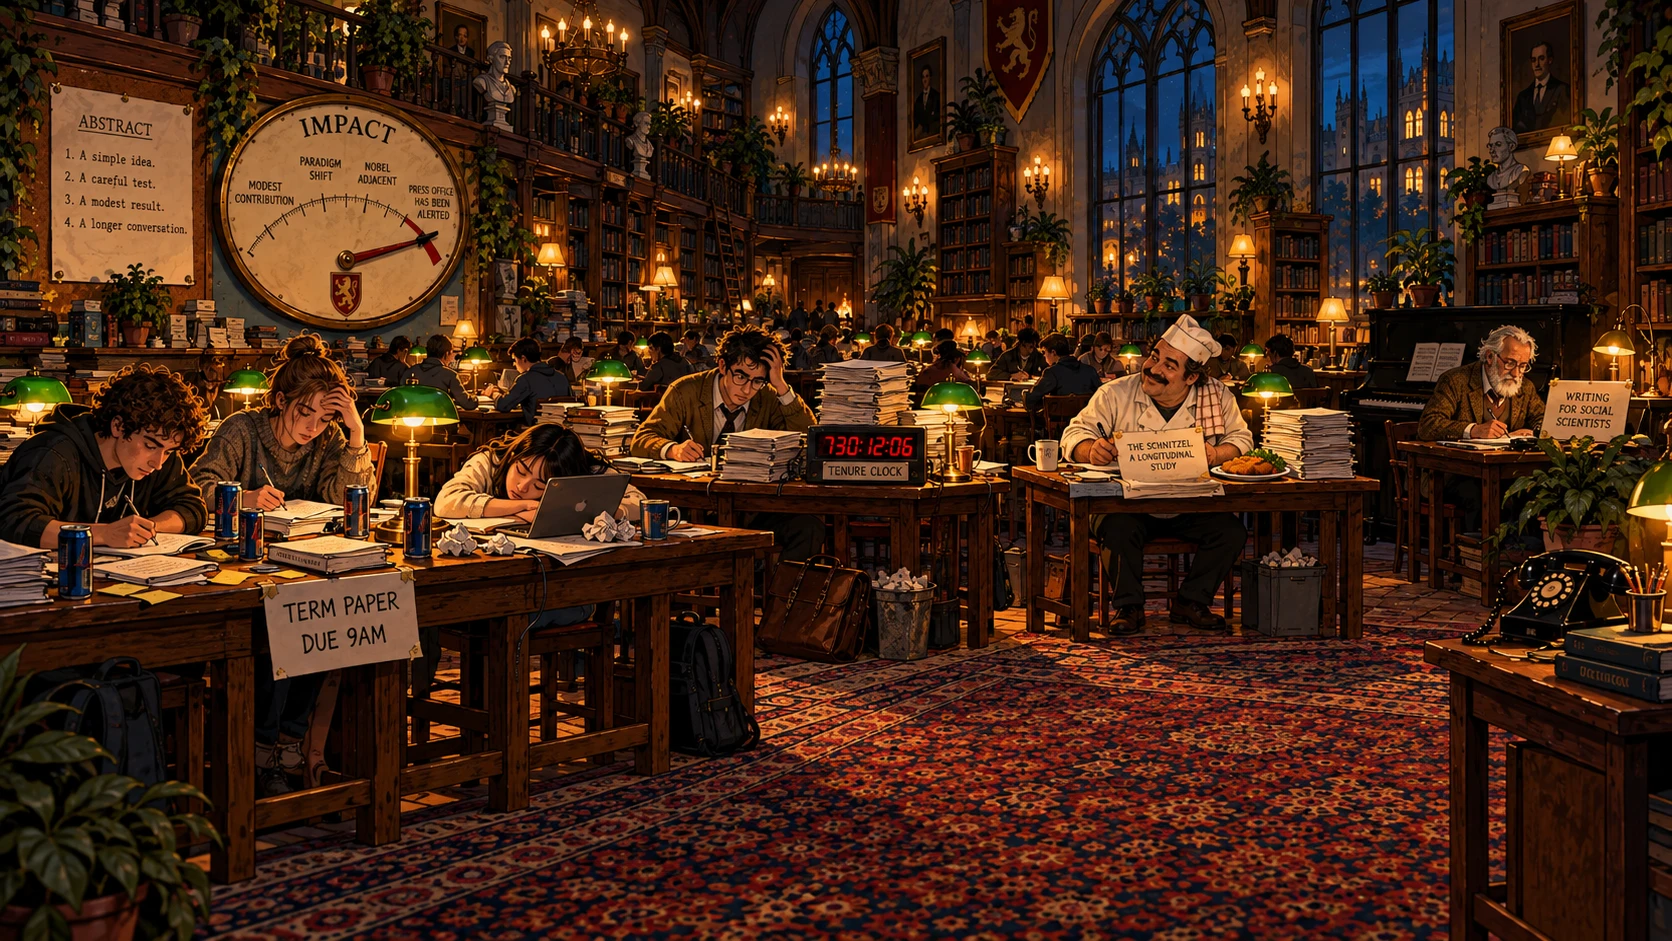
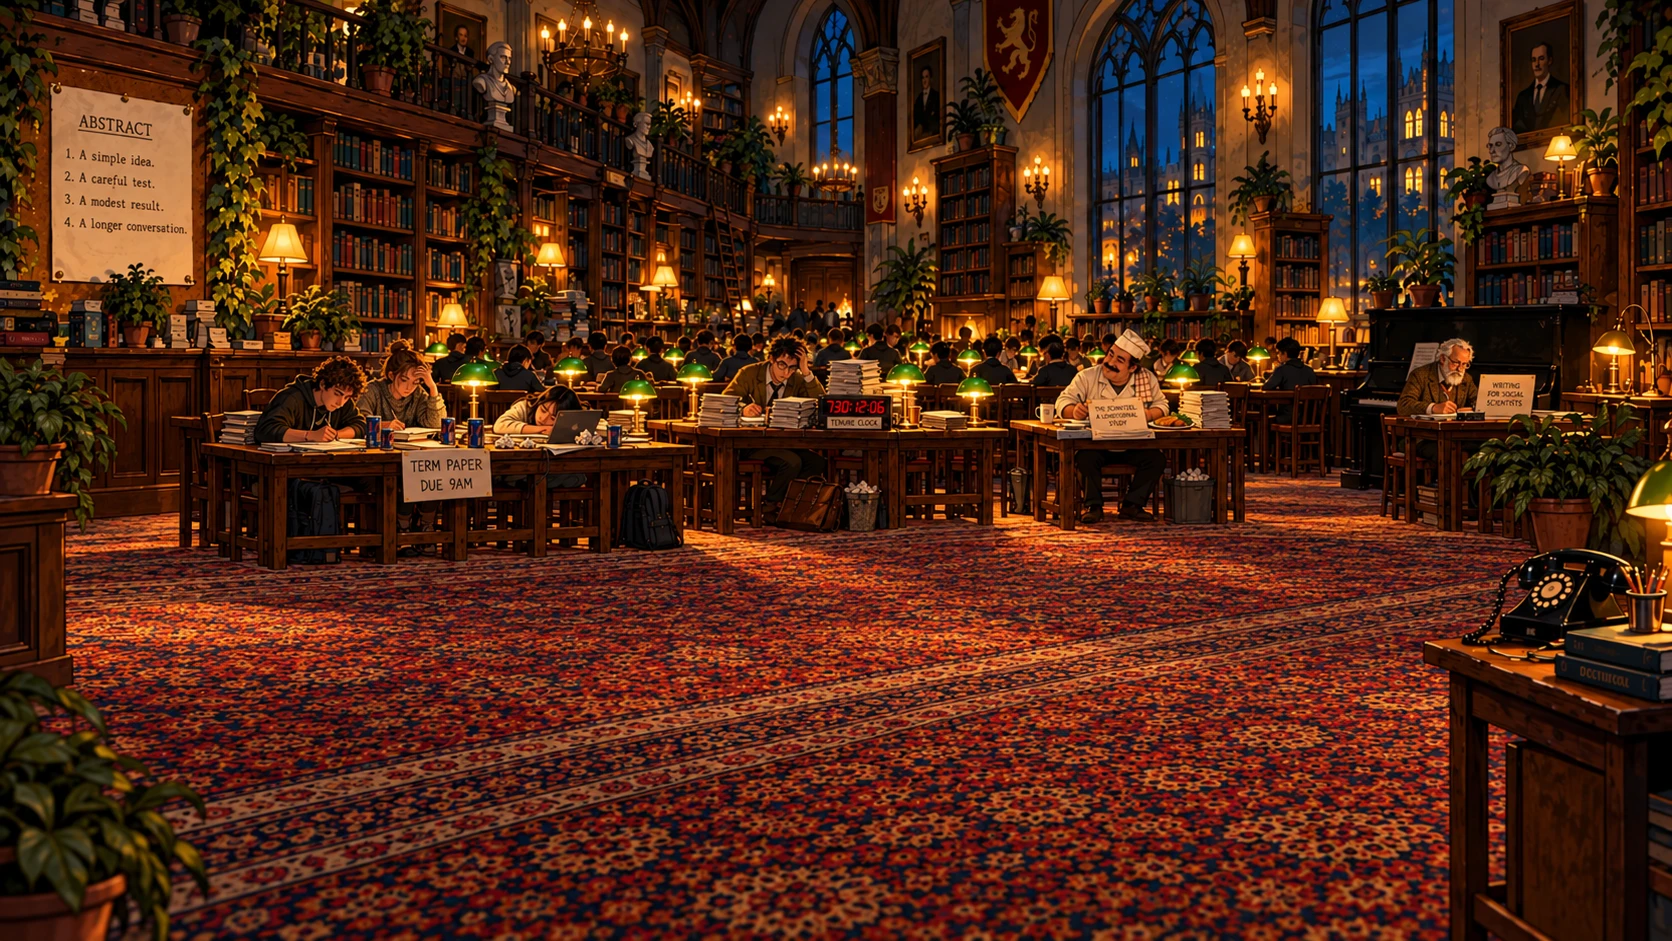
Writing Room repainted: no IMPACT gauge, the writers at the back of the hall, Vossberg, Stellmacher, the Registrar and KIRA on the open carpet in front
Claude-Session: https://claude.ai/code/session_01NVbNvGwATBDeX3jSoy7jXs

diff --git a/web/the-secret-of-the-codebook.html b/web/the-secret-of-the-codebook.html
@@ -3082,7 +3082,7 @@
   }
   // The actions each thing really needs, set room by room (ROADMAP 8zx; author: "only show the icons that
   // are really needed"). This table wins over the guess read off the room's code; Tobi is always Talk.
-  var ROOM_VERBS = {"whirlpool":{"prof":"talkto","penjar":"pickup","hourglass":"pickup","usb":"pickup","stamp":"pickup","glassdesk":"pickup","bingocard":"pickup","mug":"lookat","likertdie":"pickup","autograph":"lookat","shelfL":"lookat","shelfR":"lookat","frameL":"lookat","frameR":"lookat","windowL":"lookat","windowR":"lookat","skeleton":"lookat","cork":"lookat","counter":"lookat"},"lecture":{"goffman":"lookat","note":"lookat","phone":"lookat","doodle":"lookat","board":"use","ink":"pickup","prof":"talkto","students":"talkto"},"corridor":{"note":"lookat","glass":"lookat","skeleton":"lookat","wanted":"lookat","corkboard":"lookat","chalkboard":"lookat","duck":"pickup","gatedoor":"use","bell":"use"},"pond":{"philosopher":"talkto","coleman":"lookat","plaque":"lookat","swanleft":"lookat","swanright":"lookat"},"library":{"kira":"talkto","conveyor":"lookat use","catalogue":"use","framed":"lookat","stacks":"lookat","register":"pickup","desk":"pickup","sign":"lookat","phone":"use","swbook":"pickup","printer":"lookat pickup"},"hall":{"profg":"talkto","dj":"talkto","djtable":"lookat","ladder":"pickup","dispenser":"use","meter":"use","weber":"talkto","sign":"lookat","clipping":"lookat","marx":"talkto","durkheim":"talkto","founder3":"talkto"},"workshop":{"feldstrom":"talkto","machine":"use","tape":"use","forbids":"lookat","desk":"lookat","thesis":"lookat","diagrams":"lookat"},"seminar":{"board":"use","fellow":"talkto","chairs":"lookat","sign":"lookat"},"surveylab":{"nurse":"talkto","gurney1":"lookat","gurney2":"lookat","gurney3":"lookat","clipboard":"lookat","cabinet":"pickup","board":"lookat","phone":"lookat use","sign":"lookat","window":"lookat","poster":"lookat"},"ethics":{"keeper":"talkto","chair":"talkto","rep":"talkto","tribunal":"talkto","device":"lookat","table":"pickup","calendar":"pickup","pewright":"pickup","pewleft":"lookat","plaque":"lookat","glass":"lookat","cameo":"talkto"},"mensa":{"herald":"talkto","drum":"use","officer":"use","frame":"use","counters":"talkto","tables":"lookat"},"fieldwork":{"director":"talkto","host":"use","phone":"pickup","podiums":"lookat","board":"lookat","doorbusy":"lookat","doorforgot":"lookat","doorspam":"lookat","doornot":"lookat"},"statsbasement":{"switches":"use","seal":"use","skeptic":"talkto","banner":"lookat","board":"lookat","monkeydoor":"use","qNurse":"talkto","qDoorman":"talkto","qRegistrar":"talkto"},"delegation":{"kira":"talkto","record":"use","lever":"use","log":"lookat","prof":"talkto","qDirector":"talkto","qOfficer":"talkto","qFeldstrom":"talkto"},"bureau":{"clerk":"talkto","counter":"use","conveyor":"lookat","plaques":"lookat","gauge":"lookat"},"psychlab":{"achterberg":"talkto","typist":"talkto","desk":"lookat","typewriters":"lookat","hamlet":"lookat","pinboard":"lookat","cages":"lookat","labdoor":"lookat"},"postersession":{"poster":"use","best":"lookat","posters":"lookat","bins":"lookat","banner":"lookat","cameo":"talkto","feldstrom":"talkto"},"keynote":{"screen":"lookat","vossberg":"talkto","portraits":"lookat","chat":"lookat"},"writingroom":{"registrar":"talkto","kira":"talkto","table":"use","abstract":"use","impact":"lookat","phone":"lookat use","stCurly":"talkto","stHead":"talkto","stAsleep":"talkto","asst":"talkto","cook":"talkto","becker":"talkto","prof":"talkto","vossberg":"talkto"}};
+  var ROOM_VERBS = {"whirlpool":{"prof":"talkto","penjar":"pickup","hourglass":"pickup","usb":"pickup","stamp":"pickup","glassdesk":"pickup","bingocard":"pickup","mug":"lookat","likertdie":"pickup","autograph":"lookat","shelfL":"lookat","shelfR":"lookat","frameL":"lookat","frameR":"lookat","windowL":"lookat","windowR":"lookat","skeleton":"lookat","cork":"lookat","counter":"lookat"},"lecture":{"goffman":"lookat","note":"lookat","phone":"lookat","doodle":"lookat","board":"use","ink":"pickup","prof":"talkto","students":"talkto"},"corridor":{"note":"lookat","glass":"lookat","skeleton":"lookat","wanted":"lookat","corkboard":"lookat","chalkboard":"lookat","duck":"pickup","gatedoor":"use","bell":"use"},"pond":{"philosopher":"talkto","coleman":"lookat","plaque":"lookat","swanleft":"lookat","swanright":"lookat"},"library":{"kira":"talkto","conveyor":"lookat use","catalogue":"use","framed":"lookat","stacks":"lookat","register":"pickup","desk":"pickup","sign":"lookat","phone":"use","swbook":"pickup","printer":"lookat pickup"},"hall":{"profg":"talkto","dj":"talkto","djtable":"lookat","ladder":"pickup","dispenser":"use","meter":"use","weber":"talkto","sign":"lookat","clipping":"lookat","marx":"talkto","durkheim":"talkto","founder3":"talkto"},"workshop":{"feldstrom":"talkto","machine":"use","tape":"use","forbids":"lookat","desk":"lookat","thesis":"lookat","diagrams":"lookat"},"seminar":{"board":"use","fellow":"talkto","chairs":"lookat","sign":"lookat"},"surveylab":{"nurse":"talkto","gurney1":"lookat","gurney2":"lookat","gurney3":"lookat","clipboard":"lookat","cabinet":"pickup","board":"lookat","phone":"lookat use","sign":"lookat","window":"lookat","poster":"lookat"},"ethics":{"keeper":"talkto","chair":"talkto","rep":"talkto","tribunal":"talkto","device":"lookat","table":"pickup","calendar":"pickup","pewright":"pickup","pewleft":"lookat","plaque":"lookat","glass":"lookat","cameo":"talkto"},"mensa":{"herald":"talkto","drum":"use","officer":"use","frame":"use","counters":"talkto","tables":"lookat"},"fieldwork":{"director":"talkto","host":"use","phone":"pickup","podiums":"lookat","board":"lookat","doorbusy":"lookat","doorforgot":"lookat","doorspam":"lookat","doornot":"lookat"},"statsbasement":{"switches":"use","seal":"use","skeptic":"talkto","banner":"lookat","board":"lookat","monkeydoor":"use","qNurse":"talkto","qDoorman":"talkto","qRegistrar":"talkto"},"delegation":{"kira":"talkto","record":"use","lever":"use","log":"lookat","prof":"talkto","qDirector":"talkto","qOfficer":"talkto","qFeldstrom":"talkto"},"bureau":{"clerk":"talkto","counter":"use","conveyor":"lookat","plaques":"lookat","gauge":"lookat"},"psychlab":{"achterberg":"talkto","typist":"talkto","desk":"lookat","typewriters":"lookat","hamlet":"lookat","pinboard":"lookat","cages":"lookat","labdoor":"lookat"},"postersession":{"poster":"use","best":"lookat","posters":"lookat","bins":"lookat","banner":"lookat","cameo":"talkto","feldstrom":"talkto"},"keynote":{"screen":"lookat","vossberg":"talkto","portraits":"lookat","chat":"lookat"},"writingroom":{"registrar":"talkto","kira":"talkto","abstract":"use","phone":"lookat use","stCurly":"talkto","stHead":"talkto","stAsleep":"talkto","asst":"talkto","cook":"talkto","becker":"talkto","prof":"talkto","vossberg":"talkto"}};
   function verbsOf(t){
     var id = t.dataset.id || t.dataset.extra || t.dataset.zone || '';
     if (id === 'tobi') return ['talkto'];
@@ -12042,24 +12042,22 @@ var CSS = '' +
 // The Writing Room, redesigned (author, 2026-09-28: "much bigger and many more people sitting there
 // writing"): a writing hall. Everybody here is writing something; you are the one with a deadline AND a claim.
 var HOTSPOTS = [
+  // repainted (author, 2026-09-28): no IMPACT gauge, the writers at the back, the people you deal with in front
   { id:'abstract',  label:'The ABSTRACT poster',     noun:'the abstract',  l:3,  t:9,  w:9,  h:21 },
-  { id:'impact',    label:'The IMPACT gauge',        noun:'the gauge',     l:13, t:10, w:15, h:24 },
-  { id:'stCurly',   label:'A student, writing very fast', noun:'the student', l:0,  t:40, w:12, h:19, primary:'talkto' },
-  { id:'stHead',    label:'A student, head in her hands', noun:'the student', l:12, t:37, w:10, h:20, primary:'talkto' },
-  { id:'stAsleep',  label:'A student, asleep on a laptop', noun:'the sleeping student', l:26, t:45, w:12, h:12, primary:'talkto' },
-  { id:'asst',      label:'An assistant professor, and a TENURE CLOCK', noun:'the assistant professor', l:38, t:34, w:17, h:17, primary:'talkto' },
-  { id:'cook',      label:'The Mensa cook, writing a book', noun:'the cook',    l:65, t:33, w:10, h:22, primary:'talkto' },
-  { id:'becker',    label:'An old man writing by the piano', noun:'the old man', l:85, t:34, w:9,  h:16, primary:'talkto' },
-  { id:'table',     label:'Your place at the long table', noun:'the table', l:37, t:53, w:12, h:10 },
-  { id:'phone',     label:'A telephone',             noun:'the telephone', l:87, t:58, w:13, h:14 },
-  { id:'prof',      label:'Professor Stellmacher, with a red pen', noun:'the Professor', l:53, t:42, w:12, h:57, primary:'talkto' },
-  // the fog is his (author, 2026-09-28: villainise the other pole too -- "the Vossbergs of the world")
-  { id:'vossberg',  label:'Dr. Vossberg, holding your draft aloft', noun:'Dr. Vossberg', l:38, t:44, w:13, h:55, primary:'talkto' },
-  { id:'registrar', label:'The Registrar of Gaps',  noun:'the Registrar', l:73.5, t:45, w:9, h:39, primary:'talkto' },
-  { id:'kira',      label:'KIRA',                    noun:'KIRA',          l:83, t:63, w:11, h:35 }
+  { id:'stCurly',   label:'A student, writing very fast', noun:'the student', l:15, t:37, w:6.5, h:11, primary:'talkto' },
+  { id:'stHead',    label:'A student, head in her hands', noun:'the student', l:21.5, t:36, w:5.5, h:11, primary:'talkto' },
+  { id:'stAsleep',  label:'A student, asleep on a laptop', noun:'the sleeping student', l:29.5, t:41, w:6.5, h:6, primary:'talkto' },
+  { id:'asst',      label:'An assistant professor, and a TENURE CLOCK', noun:'the assistant professor', l:43, t:35, w:10, h:12, primary:'talkto' },
+  { id:'cook',      label:'The Mensa cook, writing a book', noun:'the cook',    l:63, t:35, w:7, h:12, primary:'talkto' },
+  { id:'becker',    label:'An old man writing by the piano', noun:'the old man', l:83.5, t:35, w:8, h:10, primary:'talkto' },
+  { id:'phone',     label:'A telephone',             noun:'the telephone', l:88, t:58, w:12, h:13 },
+  { id:'vossberg',  label:'Dr. Vossberg, holding your draft aloft', noun:'Dr. Vossberg', l:26, t:44, w:14, h:55, primary:'talkto' },
+  { id:'prof',      label:'Professor Stellmacher, with a red pen', noun:'the Professor', l:45, t:42, w:11, h:57, primary:'talkto' },
+  { id:'registrar', label:'The Registrar of Gaps',  noun:'the Registrar', l:61, t:50, w:9, h:43, primary:'talkto' },
+  { id:'kira',      label:'KIRA',                    noun:'KIRA',          l:74, t:62, w:11, h:36 }
 ];
 (function(){ var st = document.createElement('style'); st.textContent =
-  '.wr-draft{position:absolute;left:1.5%;top:40%;width:31%;z-index:6;background:#fbf6e8;color:#2a2440;border-radius:3px;padding:.7% 1%;' +
+  '.wr-draft{position:absolute;left:1%;top:57%;width:22%;z-index:6;background:#fbf6e8;color:#2a2440;border-radius:3px;padding:.7% 1%;' +
   'box-shadow:0 8px 22px rgba(0,0,0,.55);transform:rotate(-1.5deg);font:max(9px,.95vw)/1.3 Georgia,serif;pointer-events:none;}' +
   '.wr-draft .wr-dh{font:700 max(8px,.7vw) "JetBrains Mono",monospace;letter-spacing:.14em;color:#8a5a14;margin-bottom:.3em;}' +
   '.wr-draft .wr-dl{margin:.25em 0;}' +
@@ -12096,12 +12094,12 @@ var HOTSPOTS = [
 CODEBOOK_REGISTER({
   id: 'writingroom', act: 'Act V', title: 'The Writing Room', doneFlag: 'writingDone',
   prereq: CODEBOOK_ACT_GATE(5), lockedHint: 'Locked until the evidence is verified (Act IV).',
-  html: CODEBOOK_ADV_HTML({ p:'wr', depth:{ backY:70, backH:36, frontY:99, frontH:58 }, floor:[70, 98], walk:[[40, 90], [34, 92]], tobiFoot:[40.0, 97.0], act:'Act V', title:'The Writing Room',
+  html: CODEBOOK_ADV_HTML({ p:'wr', depth:{ backY:60, backH:34, frontY:99, frontH:58 }, floor:[58, 99], walk:[[20, 88], [12, 90]], tobiFoot:[14.0, 99.0], act:'Act V', title:'The Writing Room',
     bg:'writingroom-bg.webp', hotspots: HOTSPOTS, sprites: [
-      { id:'registrar', voice:'registrar', src:'sprite-registrar-papers.webp', scale:0.85, foot:[78, 84] },
-      { id:'vossberg', voice:'lecturer', src:'sprite-vossberg-draft.webp', talk:'sprite-vossberg-draft-talk.webp', scale:0.96, foot:[45, 99] },
-      { id:'prof', voice:'prof', src:'sprite-prof-redpen.webp', talk:'sprite-prof-redpen-talk.webp', scale:0.98, foot:[59, 99] },   // her own pose here: manuscript and red pen (2026-09-28); she cuts the nonsense (author, 2026-09-28)
-      { id:'kira', voice:'kira', src:'sprite-kira-pages.webp', scale:0.62, foot:[88, 99], roll:-16 }
+      { id:'registrar', voice:'registrar', src:'sprite-registrar-papers.webp', scale:0.9, foot:[65.5, 93] },
+      { id:'vossberg', voice:'lecturer', src:'sprite-vossberg-draft.webp', talk:'sprite-vossberg-draft-talk.webp', scale:0.96, foot:[33, 99] },
+      { id:'prof', voice:'prof', src:'sprite-prof-redpen.webp', talk:'sprite-prof-redpen-talk.webp', scale:0.98, foot:[50.5, 99] },   // her own pose here: manuscript and red pen (2026-09-28); she cuts the nonsense (author, 2026-09-28)
+      { id:'kira', voice:'kira', src:'sprite-kira-pages.webp', scale:0.62, foot:[79.5, 99], roll:-16 }
     ] }),
   init: function(ctx){
     window.CODEBOOK_AMBIENCE('amb-mensa', 0.035);   // a hall of quiet writers; the office loop had phones in it (2026-09-28)
